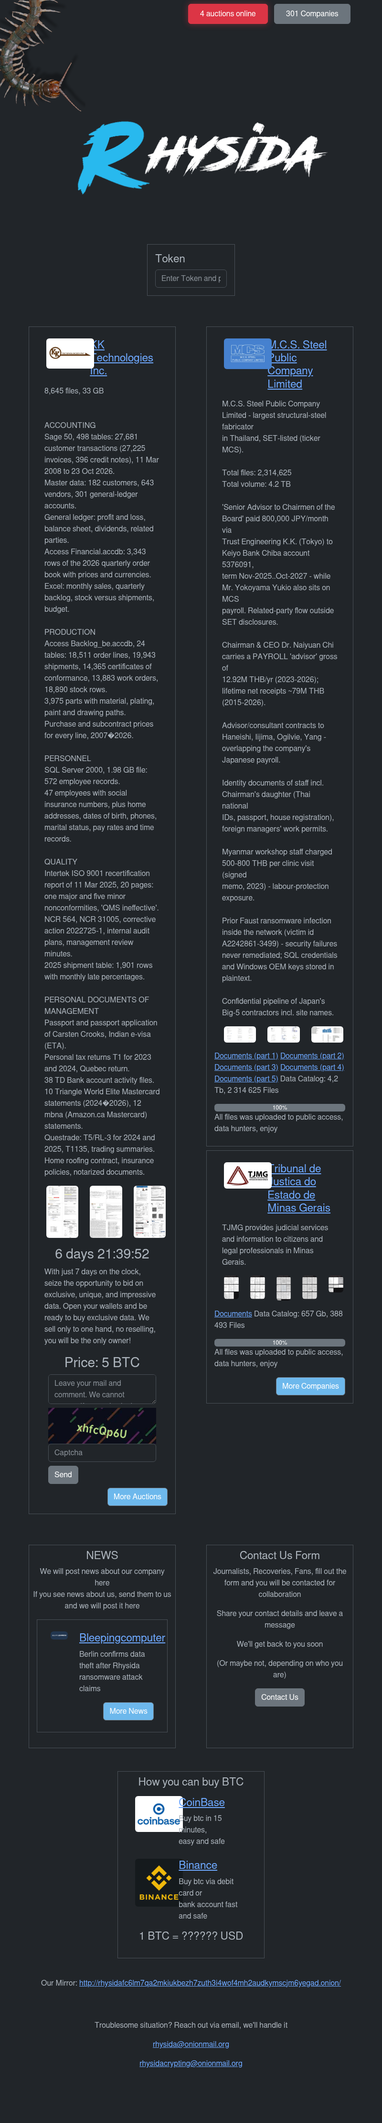
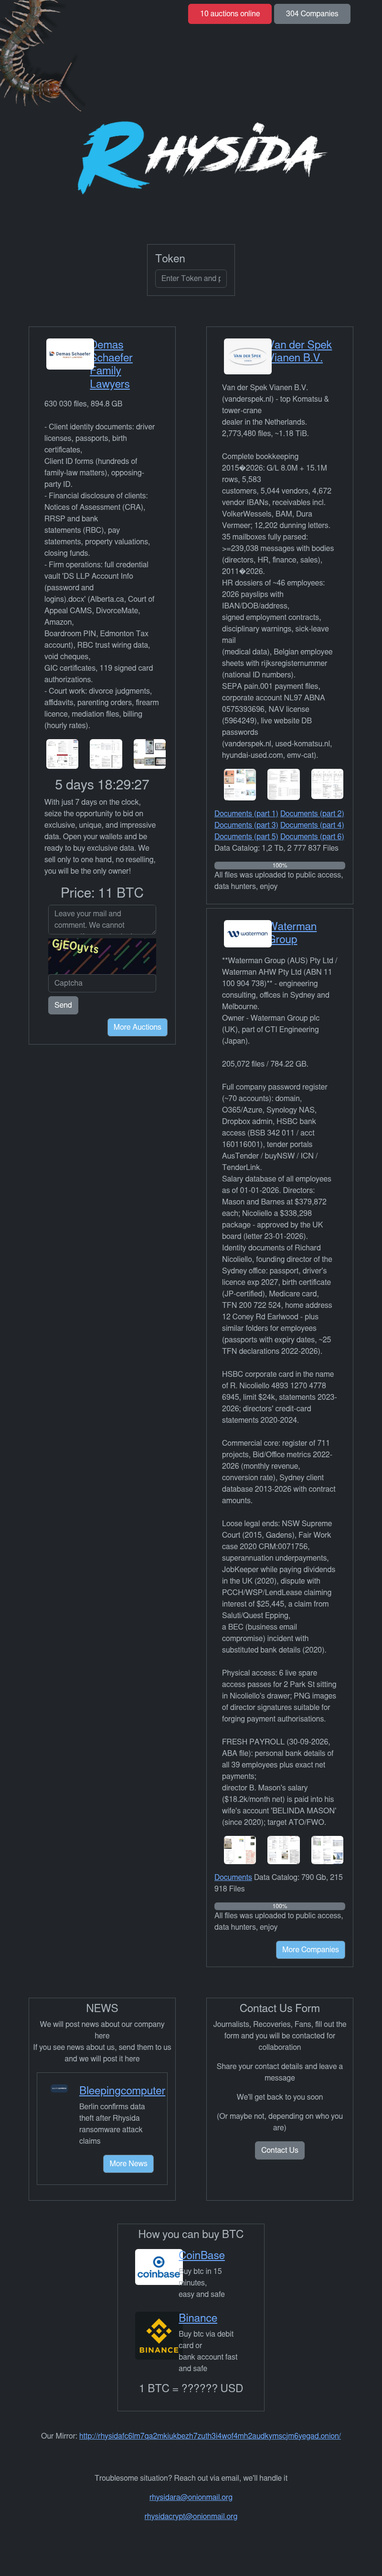
deploy: 4437f00f07ef708a39310c008595b9bcf039456d

diff --git a/slug-threeamkelxicjsaf2czjyz2lc4q3ngqkxhhlexyfcp2o6raw4rphyad.onion.html b/slug-threeamkelxicjsaf2czjyz2lc4q3ngqkxhhlexyfcp2o6raw4rphyad.onion.html
@@ -60,7 +60,7 @@
             <div class="d-flex justify-content-center h-100">
                 <div class="noselect card p-3 align-self-center" style="background: #282b3c; border: 1px solid #303448;">
                     <h2 class="m-auto mb-1" style="color: #ccc">What time does the clock show?</h2>
[2 lines of base64/hex data omitted]
                     <input class="form-control mt-2 mb-2" onkeydown="restrictToDigits(event)" pattern="[0-9]*" type="number" id="hour" min="1" max="12" placeholder="Hours" value="">
                     <input class="form-control mb-3" onkeydown="restrictToDigits(event)" pattern="[0-9]*" type="number" id="minute" min="0" max="55" step="5" placeholder="Minutes" value="">
                     <button class="btn btn-primary" onclick="verifyClock()">Verify</button>

diff --git a/rhysida-rhysidafc6lm7qa2mkiukbezh7zuth3i4wof4mh2audkymscjm6yegad.onion.html b/rhysida-rhysidafc6lm7qa2mkiukbezh7zuth3i4wof4mh2audkymscjm6yegad.onion.html
@@ -77,8 +77,8 @@
 	</head>
 	<body>
 		<div class="container mb-5">
-						<p class="auctions position-relative bg-danger text-white py-2 px-4 rounded mt-2 border border-danger" style="width: fit-content; left: calc(75% - 180px); cursor: pointer;" id="auctions_online">4 auctions online</p>
-							<p class="position-relative bg-secondary text-white py-2 px-4 rounded mt-2 border border-secondary" style="width: fit-content; left: 75%; cursor: pointer; top: -58px;" id="companies_online">301 Companies</p>
+						<p class="auctions position-relative bg-danger text-white py-2 px-4 rounded mt-2 border border-danger" style="width: fit-content; left: calc(75% - 180px); cursor: pointer;" id="auctions_online">10 auctions online</p>
+							<p class="position-relative bg-secondary text-white py-2 px-4 rounded mt-2 border border-secondary" style="width: fit-content; left: 75%; cursor: pointer; top: -58px;" id="companies_online">304 Companies</p>
 			<div class="w-100 mt-5">
 				<img src="./logos/logo.png" class="d-inline-block align-top rounded float-start w-100" alt="logo" />
 			</div>
@@ -204,8 +204,8 @@
 			<div class="row gx-5">
 				<div class="col gy-5 cell text-center mb-5">
 					<p>Troublesome situation? Reach out via email, we'll handle it</p>
-					<p><a href="mailto:rhysida@onionmail.org">rhysida@onionmail.org</a></p>
-					<p><a href="mailto:rhysidacrypting@onionmail.org">rhysidacrypting@onionmail.org</a></p>
+					<p><a href="mailto:rhysidara@onionmail.org">rhysidara@onionmail.org</a></p>
+					<p><a href="mailto:rhysidacrypt@onionmail.org">rhysidacrypt@onionmail.org</a></p>
 				</div>
 			</div>
 		</div>
@@ -240,8 +240,8 @@
 					</div>
 					<div class="modal-body">
 						<p>Send us email, we'll handle it</p>
-						<p><a href="mailto:rhysida@onionmail.org">rhysida@onionmail.org</a></p>
-						<p><a href="mailto:rhysidacrypting@onionmail.org">rhysidacrypting@onionmail.org</a></p>
+						<p><a href="mailto:rhysidara@onionmail.org">rhysidara@onionmail.org</a></p>
+						<p><a href="mailto:rhysidacrypt@onionmail.org">rhysidacrypt@onionmail.org</a></p>
 					</div>
 				</div>
 			</div>
